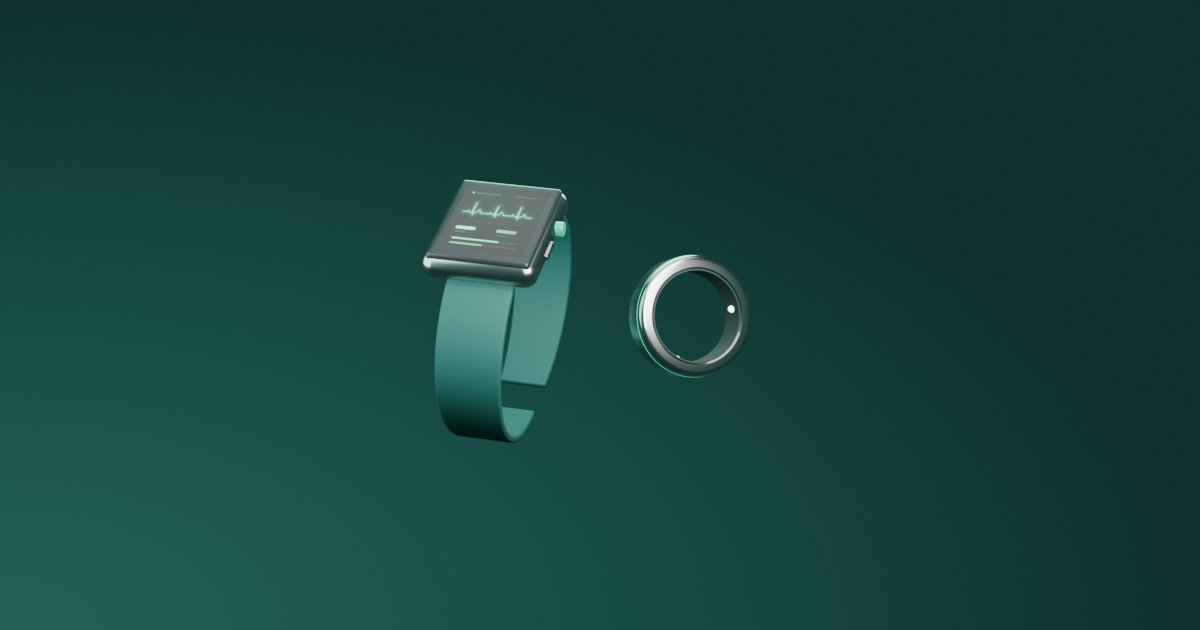
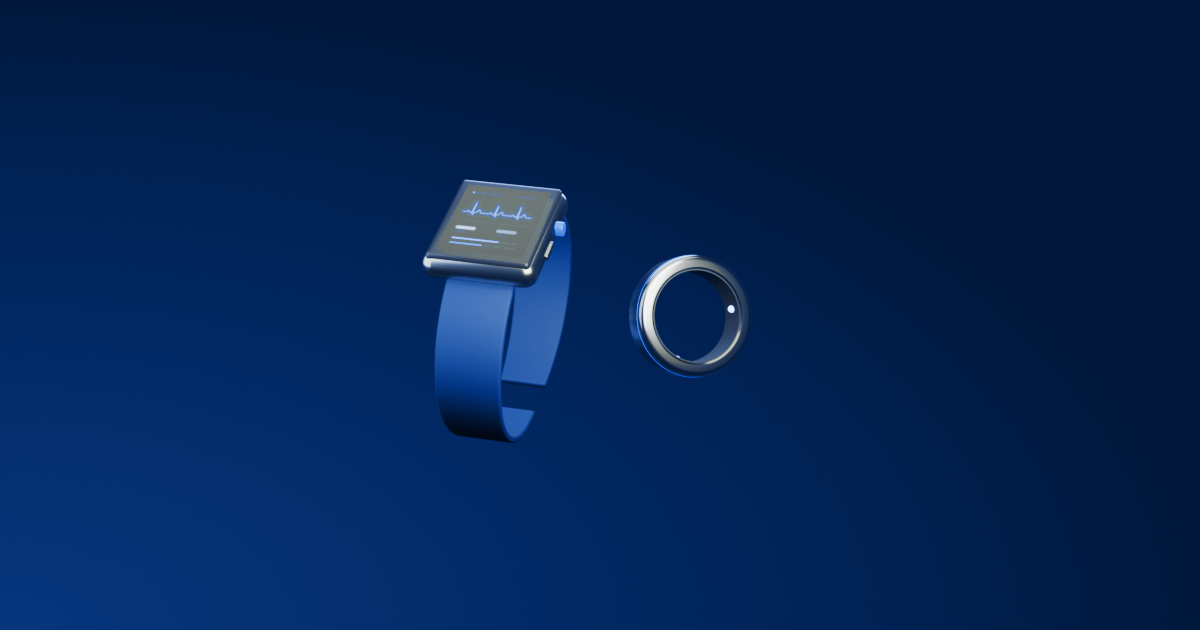
Final (I Hope)

diff --git a/index.html b/index.html
@@ -922,7 +922,7 @@
     <div class="appshow__grid">
       <div class="appshow__shots">
         <figure class="phone phone--a">
-          <img src="assets/img/app-beranda.webp" width="390" height="844" loading="lazy"
+          <img src="assets/img/app-beranda.png" width="390" height="844" loading="lazy"
                alt="Tangkapan layar beranda aplikasi TeleCare">
         </figure>
         <figure class="phone phone--b">
@@ -955,8 +955,8 @@
           <div class="stack-item reveal" data-d="2">
             <span class="stack-item__ico"><svg><use href="#i-doctor"/></svg></span>
             <div><b>Pemantauan oleh admin unit</b>
-              <p>Pasien bergabung ke unitnya dengan kode unit; admin melihat hasil ukur anggota,
-                 status triase, dan perangkat yang dipakai, lalu mengunduh laporannya.</p></div>
+              <p>Setiap pasien otomatis terpantau admin: hasil ukur TeleBand, status triase, tujuan
+                 kesehatan, catatan makan, dan capaian gizi hariannya — lengkap dengan laporan unduhan.</p></div>
           </div>
           <div class="stack-item reveal" data-d="3">
             <span class="stack-item__ico"><svg><use href="#i-chart"/></svg></span>
@@ -1238,7 +1238,7 @@
       <p>Terbuka untuk kolaborasi riset, uji coba terbatas, dan diskusi penerapan bersama perusahaan,
          pesantren, sekolah berasrama, maupun panti jompo.</p>
       <div class="cta__actions">
-        <a href="mailto:xinhuantech@gmail.com?subject=Kolaborasi%20TeleCare" class="btn btn--primary">Hubungi tim peneliti <svg><use href="#i-arrow"/></svg></a>
+        <a href="https://wa.me/6285712744961" class="btn btn--primary">Hubungi tim peneliti <svg><use href="#i-arrow"/></svg></a>
         <a href="#produk" class="btn btn--glass">Tinjau perangkat</a>
       </div>
     </div>

diff --git a/app/js/views-auth.js b/app/js/views-auth.js
@@ -326,6 +326,10 @@
   function viewLoginAdmin() {
     setTopbar('');
     setView(`<div class="auth">
+      <div class="auth__top">
+        <a class="topbar__back" href="../" aria-label="Kembali ke halaman utama TeleCare"
+           title="Kembali ke halaman utama">${icon('back')}</a>
+      </div>
       <div class="auth__body">
         <div class="auth__logo">${logoSvg(62)}</div>
         <h1>Masuk Admin</h1>

diff --git a/app/sw.js b/app/sw.js
@@ -14,7 +14,7 @@
    ============================================================ */
 'use strict';
 
-const VERSION = 'v26';
+const VERSION = 'v27';
 const CACHE = `telecare-app-${VERSION}`;
 
 // Kerangka aplikasi. Urutan skrip mengikuti app/index.html.

diff --git a/MEMORY.md b/MEMORY.md
@@ -258,6 +258,14 @@ Urut dari yang paling awal. Butir 1–16 terjadi di era Firebase.
     Bug: `shortDate/hhmm/fullDate` (core.js) hanya menerima Date; eskalasi, catatan klinis, dan laporan
     CSV mengirim timestamp → detail pengguna ber-eskalasi gagal "d.getDate is not a function". Kini
     ketiganya menerima Date, angka, atau teks ISO (`keDate`).
+35. **Tangkapan landing diperbarui** (25 Sep): `assets/img/app-beranda.png` (Beranda biru, data contoh:
+    TeleBand tersambung, 1 sesi makan) menggantikan `app-beranda.webp` (file lama dibiarkan, tak dipakai).
+    Teks "Pemantauan oleh admin unit" disesuaikan (tanpa kode unit).
+36. **Render statis dibirukan** (25 Sep): render-teleband, render-hero-duo, og-cover (.png & .webp)
+    diwarnai ulang per piksel (rona 70–200° → 216°, saturasi ×1,75+0,08, kecerahan tetap) lewat canvas
+    di Edge/CDP (skrip scratch warnai.js). `/masuk/admin` kini punya tombol kembali ke landing (`../`).
+    Pelajaran: di PowerShell 5.1 JANGAN `Get-Content | Set-Content -Encoding utf8` untuk file repo —
+    membaca ANSI + menulis BOM merusak "—" (sw.js sempat rusak, dipulihkan dari git).
 
 ---
 
